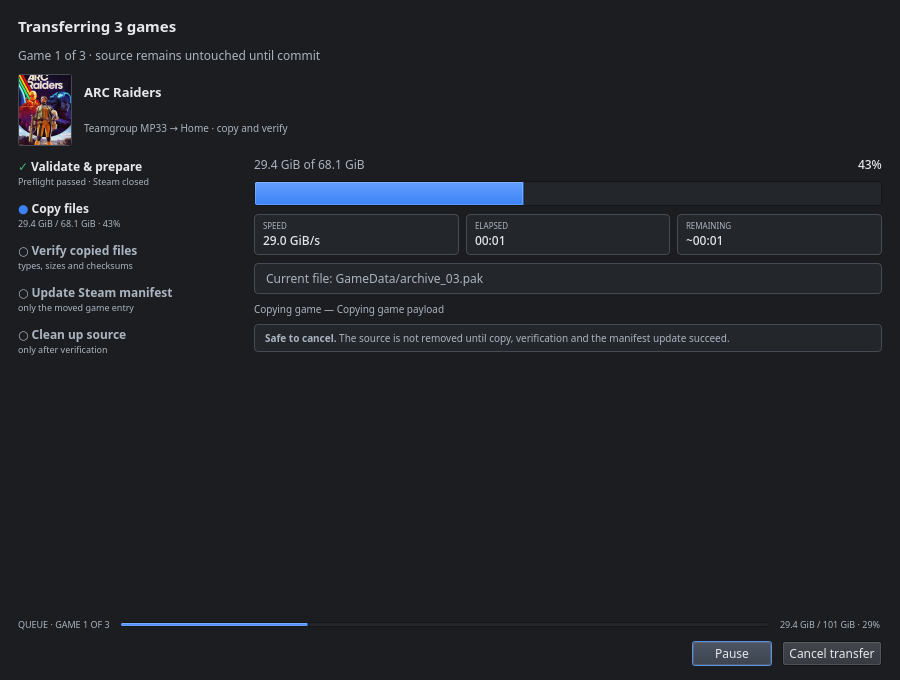
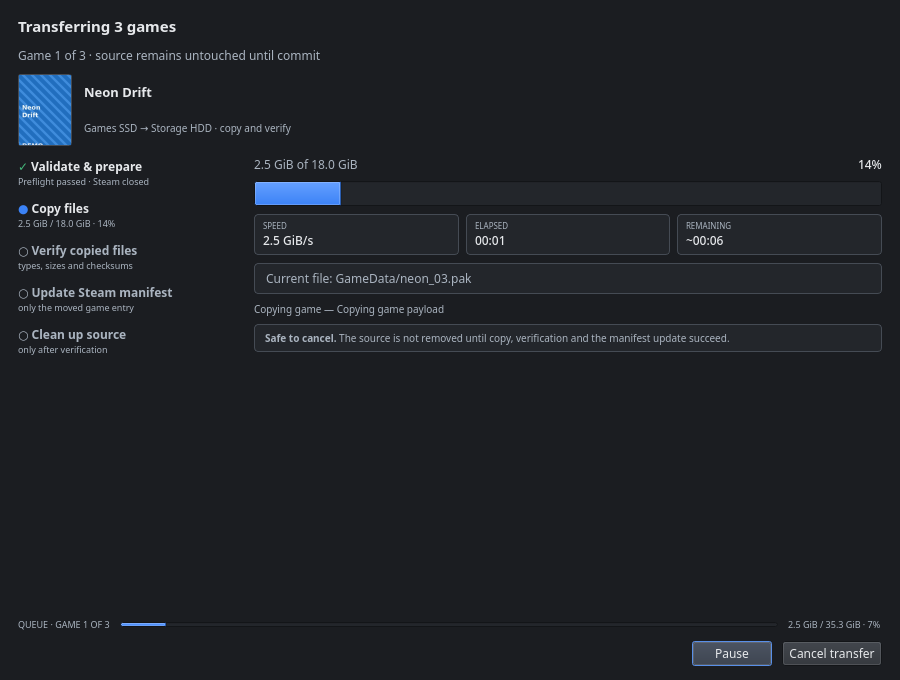
Improve README onboarding and use demo screenshots

diff --git a/README.md b/README.md
@@ -34,6 +34,14 @@ symlinks, or libraries that contain filenames Windows filesystems cannot represe
 It reviews the move first, refuses unsafe destinations, journals every operation and keeps the
 source intact until the destination has been verified and the Steam manifest has been updated.
 
+## Before you start
+
+- Linux x86_64 with Steam installed.
+- The destination Steam library must already exist and be registered in Steam.
+- Steam and any Proton/Wine games must be closed.
+- Enough free space must be available on the destination.
+- Keep a backup of saves and irreplaceable data while the project is in alpha.
+
 ## Install
 
 ### Arch Linux / CachyOS
@@ -48,15 +56,15 @@ paru -S steam-library-mover
 
 ### AppImage
 
-Download the latest AppImage from
-[GitHub Releases](https://github.com/NasirA1991/steam-library-mover/releases):
+Download the latest portable build:
 
 ```bash
+curl -LO https://github.com/NasirA1991/steam-library-mover/releases/latest/download/Steam_Library_Mover-x86_64.AppImage
 chmod +x Steam_Library_Mover-x86_64.AppImage
 ./Steam_Library_Mover-x86_64.AppImage
 ```
 
-The AppImage is portable and does not need to be installed system-wide.
+The AppImage does not need to be installed system-wide.
 
 ### Other distributions
 
@@ -77,8 +85,8 @@ A Flatpak version is not currently offered.
   <img src="docs/screenshots/progress-dark.png" alt="Transfer progress" width="46%">
 </p>
 
-<p align="center"><sub>Review every move before it starts; unsafe destinations are explained
-instead of being attempted.</sub></p>
+<p align="center"><sub>Screenshots use a demo library. Review every move before it starts; unsafe
+destinations are explained instead of being attempted.</sub></p>
 
 ## How to move a game
 
@@ -177,6 +185,17 @@ steam-library-mover-cli health
 ```
 
 Run `steam-library-mover-cli --help` for all options.
+
+## Troubleshooting
+
+| Problem | What to do |
+| --- | --- |
+| Steam's own mover fails with “content file locked” | Use Steam Library Mover; it handles shared Proton prefixes without moving a prefix onto itself. |
+| A library is read-only | Check `findmnt -T <library path>` and remount it read-write with the correct permissions. |
+| Move blocked by an NTFS case collision | Use a case-sensitive Linux filesystem, or resolve the conflicting game file with a backup. The app will not modify game files automatically. |
+| Game is not listed | Click **Rescan**, check the selected Steam installation, or set a custom Steam root in Settings. |
+| The AUR build still looks old | Check `command -v steam-library-mover`. An old copy in `/usr/local/bin` can shadow `/usr/bin/steam-library-mover`. |
+| AppImage will not start | Make it executable and try `APPIMAGE_EXTRACT_AND_RUN=1 ./Steam_Library_Mover-x86_64.AppImage`. |
 
 ## Documentation
 
